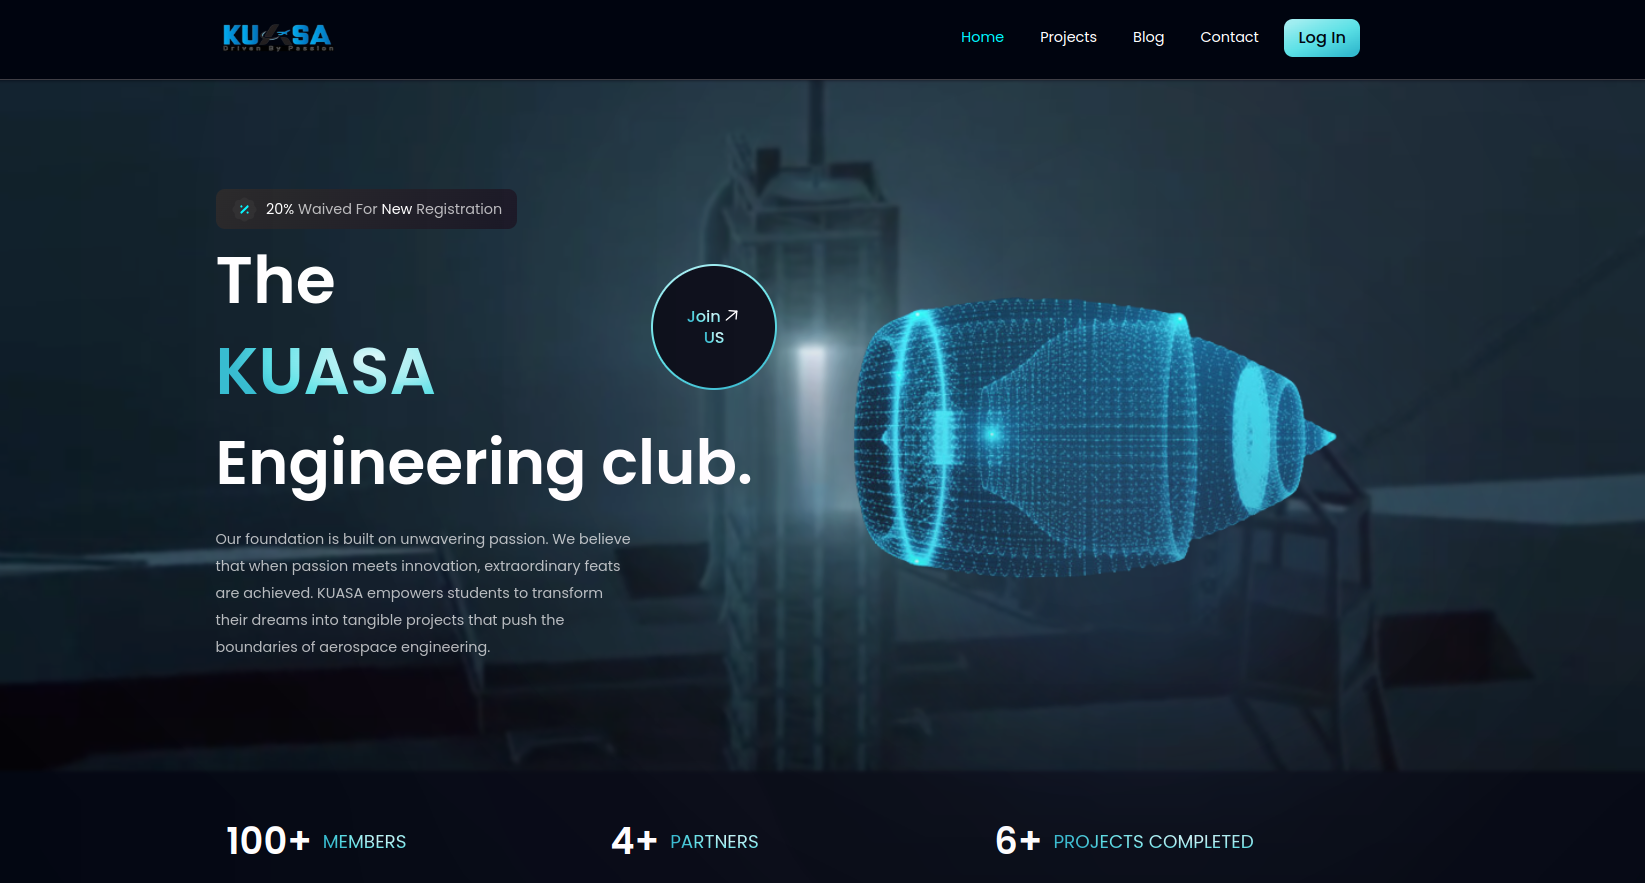
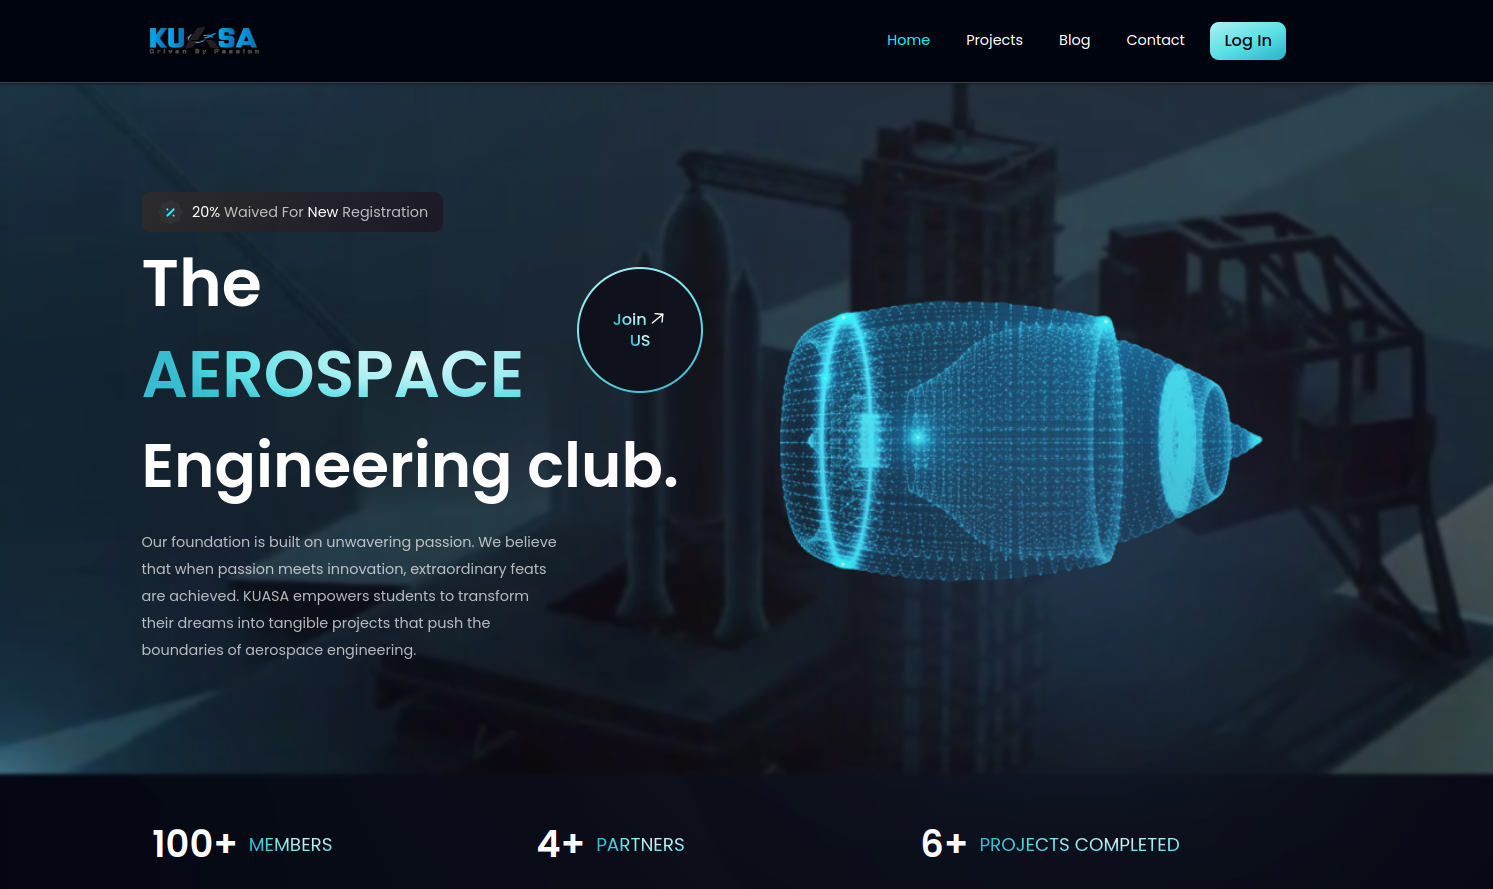
Update home section

diff --git a/src/components/Hero.jsx b/src/components/Hero.jsx
@@ -15,7 +15,7 @@ const Hero = () => (
 
       <div className="flex flex-row justify-between items-center w-full z-[5]">
         <h1 className="flex-1 font-poppins font-semibold ss:text-[72px] text-[52px] text-white ss:leading-[100.8px] leading-[75px]">
-          The <br className="sm:block hidden" /> <span className="text-gradient">KUASA</span>{" "}
+          The <br className="sm:block hidden" /> <span className="text-gradient">AEROSPACE</span>{" "}
         </h1>
         <div className="ss:flex hidden md:mr-4 mr-0">
           <GetStarted />
